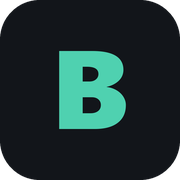
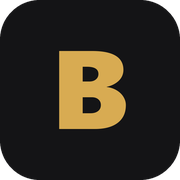
Recolour to near-monochrome + gold, add selection wash, narrow prose
- New palette. Warm off-white paper (#fcfbf9) / near-black (#141416),
  near-black ink, and a single gold accent used only for links, rules
  and callouts. Warning callouts move to rust because a gold warning
  would be indistinguishable from a gold info box.
- Custom ::selection: a shallow neutral wash (10% ink on light, 13%
  white on dark). `color: inherit` rather than a fixed colour, so
  selecting code keeps its syntax highlighting instead of flattening
  every token to one colour — verified: each element's ::selection
  colour resolves to its own. ::selection and ::-moz-selection are
  separate rules; comma-grouping them invalidates both in browsers that
  only know one. forced-colors: active hands selection back to the
  system Highlight/HighlightText.
- Recontrasted every colour against the COMPOSITED selection
  background, which costs ~1 point. Nine values moved as a result:
  keyword 4.87->6.18, func 4.59->6.33 (both failed AA while selected),
  comment, muted and accent in both themes. Worst case is now 4.76
  (light) and 4.64 (dark), selected or not.
- Prose column narrowed to 39rem (~73 chars, from ~85). Code, tables,
  figures and display math keep the full 48rem and break out. List
  indent moved from margin to padding so the centring cannot eat it.
- wrapImages now wraps every post image, not just captioned ones, and
  replaces the enclosing <p> when it holds nothing else: <figure> is
  not valid inside <p>, and being there also trapped images at the
[…]

Changed region(s): [[0.3056, 0.2778, 0.7222, 0.7222]]

diff --git a/assets/main.scss b/assets/main.scss
@@ -23,38 +23,59 @@
   --font-serif: "Iowan Old Style", "Palatino Linotype", Palatino, "Book Antiqua", Georgia, serif;
   --font-mono:  ui-monospace, SFMono-Regular, "Cascadia Mono", Menlo, Consolas, "Liberation Mono", monospace;
 
+  // Full column, used by the header, footer, and by wide blocks inside a post
+  // (code, tables, figures, display math).
   --measure: 48rem;
+  // Prose column. 48rem ran ~85 characters per line, above the 60-75 comfort
+  // range — and Turkish's long agglutinated words push it wider still.
+  --measure-prose: 39rem;
   --radius: 10px;
   --radius-sm: 6px;
 }
 
 :root[data-theme="light"] {
-  --bg:            #fdfcfa;
-  --bg-elevated:   #f4f1ea;
+  --bg:            #fcfbf9;
+  --bg-elevated:   #f3f1ec;
   --bg-code:       #f6f4ef;
-  --bg-output:     #edeae2;
-  --text:          #1c1b19;
-  --text-muted:    #6b6862;
-  --border:        #e3ded4;
-  --border-strong: #cbc4b6;
-  --accent:        #0f6f5c;
-  --accent-hover:  #0a5344;
-  --accent-soft:   rgba(15, 111, 92, 0.09);
-  --warn:          #9a6700;
-  --warn-soft:     rgba(154, 103, 0, 0.09);
-  --shadow:        0 1px 2px rgba(28, 27, 25, 0.05), 0 4px 14px rgba(28, 27, 25, 0.05);
+  --bg-output:     #edeae3;
+  --text:          #17161a;
+  // Muted and accent are both a step darker than they look like they need to
+  // be: the selection wash costs ~1 point of contrast, and at the original
+  // values (#6a675f, #8a6300) links and meta text dropped to 4.45 and 4.28
+  // while selected.
+  --text-muted:    #635f57;
+  --border:        #e4e0d6;
+  --border-strong: #cbc5b7;
+  --accent:        #805b00;
+  --accent-hover:  #634600;
+  --accent-soft:   rgba(128, 91, 0, 0.09);
+  // The accent is itself gold, so a gold warning would be indistinguishable
+  // from an info callout. Rust keeps the two semantically apart.
+  --warn:          #a2401f;
+  --warn-soft:     rgba(162, 64, 31, 0.09);
+  --shadow:        0 1px 2px rgba(23, 22, 26, 0.05), 0 4px 14px rgba(23, 22, 26, 0.05);
+
+  // Neutral, deliberately shallow. `color: inherit` on ::selection keeps the
+  // text's own colour, so selecting code does not flatten its syntax
+  // highlighting into one colour.
+  --selection-bg:  rgba(20, 20, 25, 0.10);
 
   --img-backdrop:  transparent;
   --img-pad:       0px;
 
-  // rouge tokens — GitHub Light.
-  // Comment is darkened from upstream's #6e7781, which lands at 4.14:1 on
-  // --bg-code and fails WCAG AA. #646d77 measures 4.78:1.
-  --sx-comment: #646d77;
-  --sx-keyword: #cf222e;
+  // rouge tokens — GitHub Light, with the neutrals warmed to sit on the
+  // warm-paper background. Comment is darkened well past upstream's #6e7781
+  // (4.14:1, fails AA) because the selection wash sits on top of the code
+  // background and costs about a point of contrast: 5.83:1 normally, still
+  // 4.76:1 while selected.
+  --sx-comment: #655e53;
+  // Darkened from GitHub Light's #cf222e (4.87 normal, 3.98 selected) and
+  // #8250df (4.59 normal, 3.75 selected) — both failed AA once the selection
+  // wash was composited over the code background.
+  --sx-keyword: #b31a24;
   --sx-string:  #0a3069;
   --sx-number:  #0550ae;
-  --sx-func:    #8250df;
+  --sx-func:    #6d3ac0;
   --sx-class:   #953800;
   --sx-builtin: #0550ae;
   --sx-var:     #953800;
@@ -66,20 +87,24 @@
 }
 
 :root[data-theme="dark"] {
-  --bg:            #12151a;
-  --bg-elevated:   #191d24;
-  --bg-code:       #171b21;
-  --bg-output:     #14171d;
-  --text:          #e4e1db;
-  --text-muted:    #949ba5;
-  --border:        #272d36;
-  --border-strong: #3a424e;
-  --accent:        #4fd1b0;
-  --accent-hover:  #7de5c9;
-  --accent-soft:   rgba(79, 209, 176, 0.11);
-  --warn:          #d29922;
-  --warn-soft:     rgba(210, 153, 34, 0.11);
+  --bg:            #141416;
+  --bg-elevated:   #1c1c1f;
+  --bg-code:       #1a1a1d;
+  --bg-output:     #161618;
+  --text:          #e6e3dd;
+  // Lightened from #9a968d, which fell to 4.28 under the selection wash.
+  --text-muted:    #a49f96;
+  --border:        #2b2b2f;
+  --border-strong: #3d3d43;
+  --accent:        #d8ab52;
+  --accent-hover:  #e8c079;
+  --accent-soft:   rgba(216, 171, 82, 0.12);
+  --warn:          #e0876f;
+  --warn-soft:     rgba(224, 135, 111, 0.12);
   --shadow:        0 1px 2px rgba(0, 0, 0, 0.4), 0 4px 14px rgba(0, 0, 0, 0.3);
+
+  // A faint light overlay, not grey — grey would read as dirt on a dark page.
+  --selection-bg:  rgba(255, 255, 255, 0.13);
 
   // Most images here are plots and diagrams exported on white with
   // transparency. Sitting them on a light mat keeps them readable instead of
@@ -87,8 +112,10 @@
   --img-backdrop:  #edeae4;
   --img-pad:       6px;
 
-  // rouge tokens — GitHub Dark
-  --sx-comment: #8b949e;
+  // rouge tokens — GitHub Dark. Comment lightened from upstream's #8b949e:
+  // the selection wash lifts the code background from #1a1a1d to ~#38383a,
+  // which dropped #8b949e to 3.80:1. #a2a9b1 holds 4.93:1 while selected.
+  --sx-comment: #a2a9b1;
   --sx-keyword: #ff7b72;
   --sx-string:  #a5d6ff;
   --sx-number:  #79c0ff;
@@ -101,6 +128,42 @@
   --sx-err-bg:  #490202;
   --sx-add-bg:  #0f2f1a;
   --sx-del-bg:  #3d1113;
+}
+
+// ----------------------------- selection ------------------------------------
+// Only 7 properties are honoured inside ::selection (color, background-color,
+// text-decoration-*, text-shadow, -webkit-text-stroke/fill); background-image
+// is ignored outright.
+//
+// `color: inherit` is deliberate, not a no-op: a background with no colour
+// makes browsers treat colour as inherited anyway, and WebKit will silently
+// invert colours it judges too low-contrast. Stating it keeps the text's own
+// colour — which is what preserves syntax highlighting in selected code — and
+// keeps contrast identical to the unselected state.
+//
+// These MUST stay separate rules. Comma-grouping ::selection with
+// ::-moz-selection invalidates the whole rule in browsers that only know one.
+
+::selection {
+  background-color: var(--selection-bg);
+  color: inherit;
+}
+
+::-moz-selection {
+  background-color: var(--selection-bg);
+  color: inherit;
+}
+
+// Windows High Contrast and similar: hand selection back to the system.
+@media (forced-colors: active) {
+  ::selection {
+    background-color: Highlight;
+    color: HighlightText;
+  }
+  ::-moz-selection {
+    background-color: Highlight;
+    color: HighlightText;
+  }
 }
 
 // -------------------------------- base -------------------------------------
@@ -145,7 +208,9 @@ h1, h2, h3, h4, h5, h6 {
 
 p, blockquote, pre, ul, ol, dl, figure { margin-bottom: 1.1rem; }
 
-ul, ol { margin-left: 1.5rem; }
+// Indent via padding, not margin: the prose-measure rules below centre these
+// with `margin-inline: auto`, which would otherwise wipe out the list indent.
+ul, ol { padding-left: 1.5rem; }
 li > ul, li > ol { margin-bottom: 0; }
 li { margin-bottom: 0.3rem; }
 
@@ -364,6 +429,7 @@ blockquote {
 
 .post-list {
   margin-left: 0;
+  padding-left: 0;
   list-style: none;
 
   > li {
@@ -574,12 +640,49 @@ blockquote {
   .post-content h3 { font-size: 1.18rem; }
 }
 
+// ---------------------------- prose measure --------------------------------
+// Text runs in a narrower column than the wrapper, while code, tables, figures
+// and display math keep the full width so they aren't cramped. Both are
+// centred inside the same wrapper, so the page stays symmetric and the wide
+// blocks read as a deliberate breakout rather than a misalignment.
+
+.post-header,
+.post-nav,
+.post-content > p,
+.post-content > ul,
+.post-content > ol,
+.post-content > dl,
+.post-content > blockquote,
+.post-content > h1,
+.post-content > h2,
+.post-content > h3,
+.post-content > h4,
+.post-content > h5,
+.post-content > h6,
+.post-content > hr,
+.post-content > .Toast {
+  max-width: var(--measure-prose);
+  margin-left: auto;
+  margin-right: auto;
+}
+
+// Nested lists must not re-centre — they indent from their parent.
+.post-content li > ul,
+.post-content li > ol {
+  max-width: none;
+  margin-left: 0;
+  margin-right: 0;
+}
+
 // -------------------------- table of contents ------------------------------
 // kramdown's `{:toc}` emits <ul id="markdown-toc">. Stable hook, so style it
 // as a real contents card.
 
 #markdown-toc {
-  margin: 1.75rem 0 2.5rem;
+  // `auto` on the sides, not 0: this is an ID selector and would otherwise
+  // out-specify the prose-measure rule above and sit off-centre.
+  max-width: var(--measure-prose);
+  margin: 1.75rem auto 2.5rem;
   padding: 1.1rem 1.35rem 1.1rem 2.5rem;
   background: var(--bg-elevated);
   border: 1px solid var(--border);
@@ -850,6 +953,7 @@ pre {
 .social-media-list {
   list-style: none;
   margin-left: 0;
+  padding-left: 0;
 
   li { margin-bottom: 0.35rem; }
 }

diff --git a/_includes/head.html b/_includes/head.html
@@ -22,10 +22,16 @@
     })();
   </script>
   <meta name="color-scheme" content="light dark">
-  <meta id="theme-color-meta" name="theme-color" content="#fdfcfa">
+  <meta id="theme-color-meta" name="theme-color" content="#fcfbf9">
 
-  <link rel="icon" href="{{ '/favicon.ico' | relative_url }}" sizes="any">
-  <link rel="apple-touch-icon" href="{{ '/apple-touch-icon.png' | relative_url }}">
+  {%- comment -%}
+    Browsers cache favicons far more aggressively than other assets and will
+    happily keep serving a stale one for days. Bump `icon_v` whenever the icon
+    art changes so the new one actually reaches people.
+  {%- endcomment -%}
+  {%- assign icon_v = 2 -%}
+  <link rel="icon" href="{{ '/favicon.ico' | relative_url }}?v={{ icon_v }}" sizes="any">
+  <link rel="apple-touch-icon" href="{{ '/apple-touch-icon.png' | relative_url }}?v={{ icon_v }}">
 
   {%- comment -%}
     jekyll-seo-tag builds the homepage <title> as "site.title | site.description",
@@ -90,16 +96,33 @@
   <script>
   (function () {
     function wrapImages() {
-      document.querySelectorAll(".post img[title]").forEach(function (el) {
-        var title = el.getAttribute("title");
-        if (!title || el.parentNode.classList.contains("image")) return;
+      document.querySelectorAll(".post-content img").forEach(function (el) {
+        var parent = el.parentNode;
+        if (parent.classList.contains("image")) return;
+
         var figure = document.createElement("figure");
         figure.className = "image";
-        var caption = document.createElement("figcaption");
-        caption.appendChild(document.createTextNode(title));
-        el.parentNode.insertBefore(figure, el);
+
+        // kramdown puts a standalone image inside a <p>. Leaving the figure in
+        // there would be invalid HTML (<figure> is not phrasing content) and
+        // would also trap the image at the narrow prose measure. When the <p>
+        // holds nothing but this image, replace it outright.
+        var onlyChild = parent.tagName === "P" &&
+                        parent.children.length === 1 &&
+                        parent.textContent.trim() === "";
+        if (onlyChild) {
+          parent.parentNode.replaceChild(figure, parent);
+        } else {
+          parent.insertBefore(figure, el);
+        }
         figure.appendChild(el);
-        figure.appendChild(caption);
+
+        var title = el.getAttribute("title");
+        if (title) {
+          var caption = document.createElement("figcaption");
+          caption.appendChild(document.createTextNode(title));
+          figure.appendChild(caption);
+        }
       });
     }
     if (document.readyState === "loading") {

diff --git a/_includes/header.html b/_includes/header.html
@@ -56,7 +56,7 @@
     if (!btn) return;
     var root = document.documentElement;
     var meta = document.getElementById('theme-color-meta');
-    var BG = { light: '#fdfcfa', dark: '#12151a' };
+    var BG = { light: '#fcfbf9', dark: '#141416' };
     var mq = window.matchMedia ? window.matchMedia('(prefers-color-scheme: dark)') : null;
 
     function storedChoice() {
